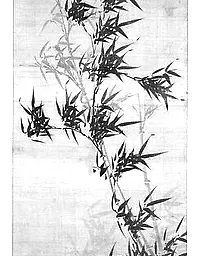
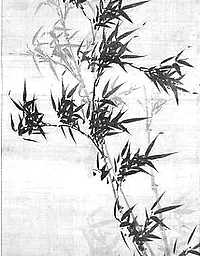
타임 투 플립 수묵화 3장 양옆 종이 여백 없애고 그림 부분만 비율에 맞춰 자름(timetoflip v0.11.2)
- 대나무·비 오는 밤 정박(봉우리)·황산 36봉: 세로로 긴 족자라 폭이 모자라 원본의 비단 테두리·종이 가장자리가
  카드 양옆에 흰 띠로 들어가 있었음 → 그림 부분(box)을 먼저 정하고 그 안에서 200×256 비율로 자름
- art-src/crop.mjs 에 box(그림 부분) 지원, spec.json 에 세 장의 box 기록

diff --git a/games/timetoflip/art-src/README.md b/games/timetoflip/art-src/README.md
@@ -3,7 +3,7 @@
 카드 앞면 명화 32장(`src/art/*.webp`)은 **메트로폴리탄 미술관 Open Access** 이미지로 만든다. Open Access 작품은 CC0(퍼블릭 도메인 헌정)이라 상업적 이용·수정·재배포에 허락이 필요 없다. 쓸 때마다 API 의 `isPublicDomain` 이 `true` 인 작품만 받는다(같은 미술관 작품이라도 false 면 쓰지 않는다).
 
 - `meta.json`: 카드 id → 미술관 작품 번호·제목·작가·연도·작품 페이지 주소·이미지 주소(출처 기록)
-- `spec.json`: 카드마다 자를 자리(가운데 `cx`·`cy`, 세로 비율 `hf`)와 처리(`pop` 4색 팝아트 팔레트, `ink` 흑백·대비)
+- `spec.json`: 카드마다 자를 자리(가운데 `cx`·`cy`, 세로 비율 `hf`, 족자처럼 테두리·종이 여백이 있으면 그림 부분 `box` [왼쪽, 위, 폭, 높이])와 처리(`pop` 4색 팝아트 팔레트, `ink` 흑백·대비)
 - `dl.mjs`·`get.mjs`: 작품 번호로 이미지·정보 받기(퍼블릭 도메인이 아니면 건너뜀, 요청 사이 쉼)
 - `crop.mjs`: 받은 이미지를 200×256 webp 로 자르고 처리(저장소 node_modules 의 sharp 사용)
 
